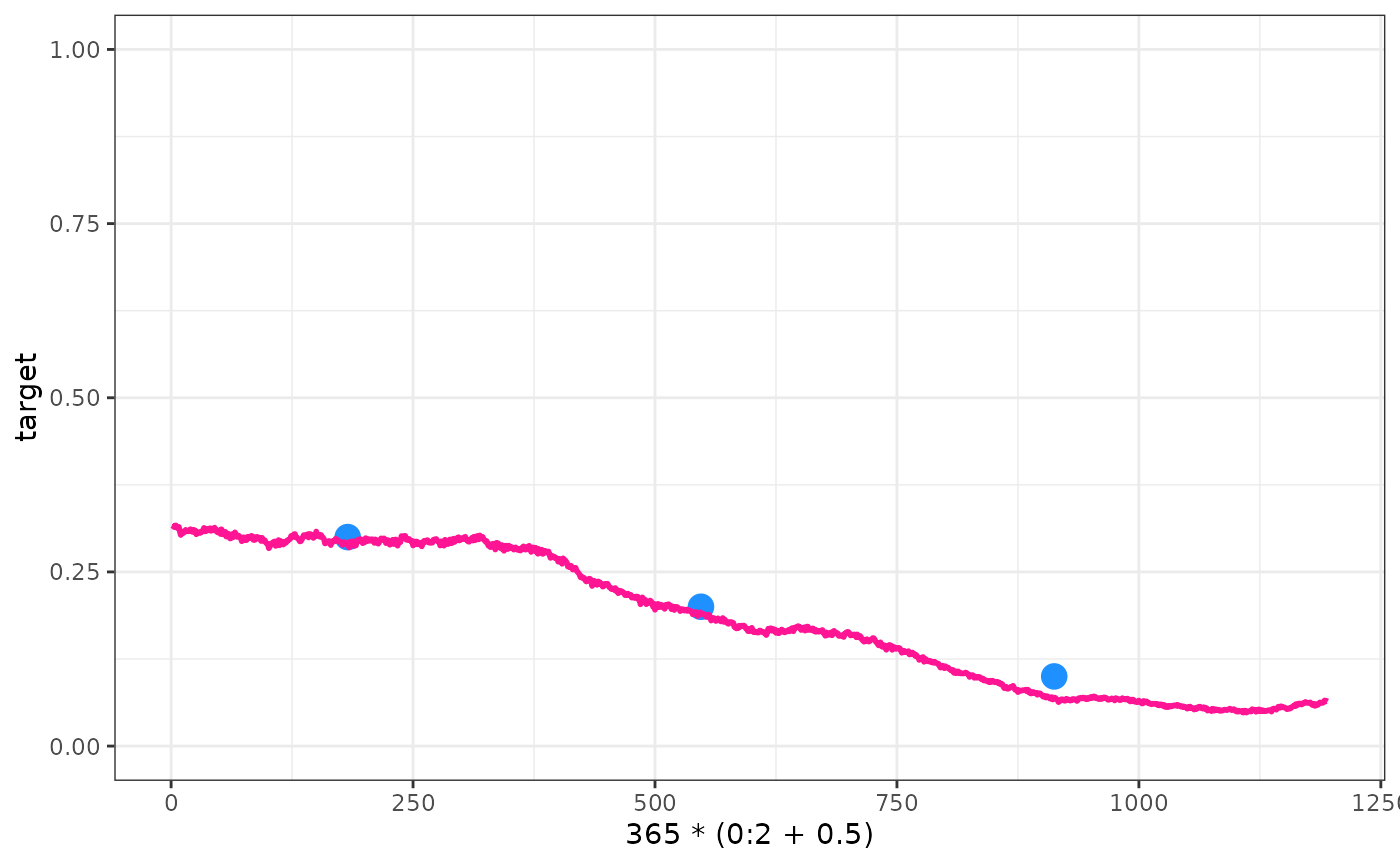
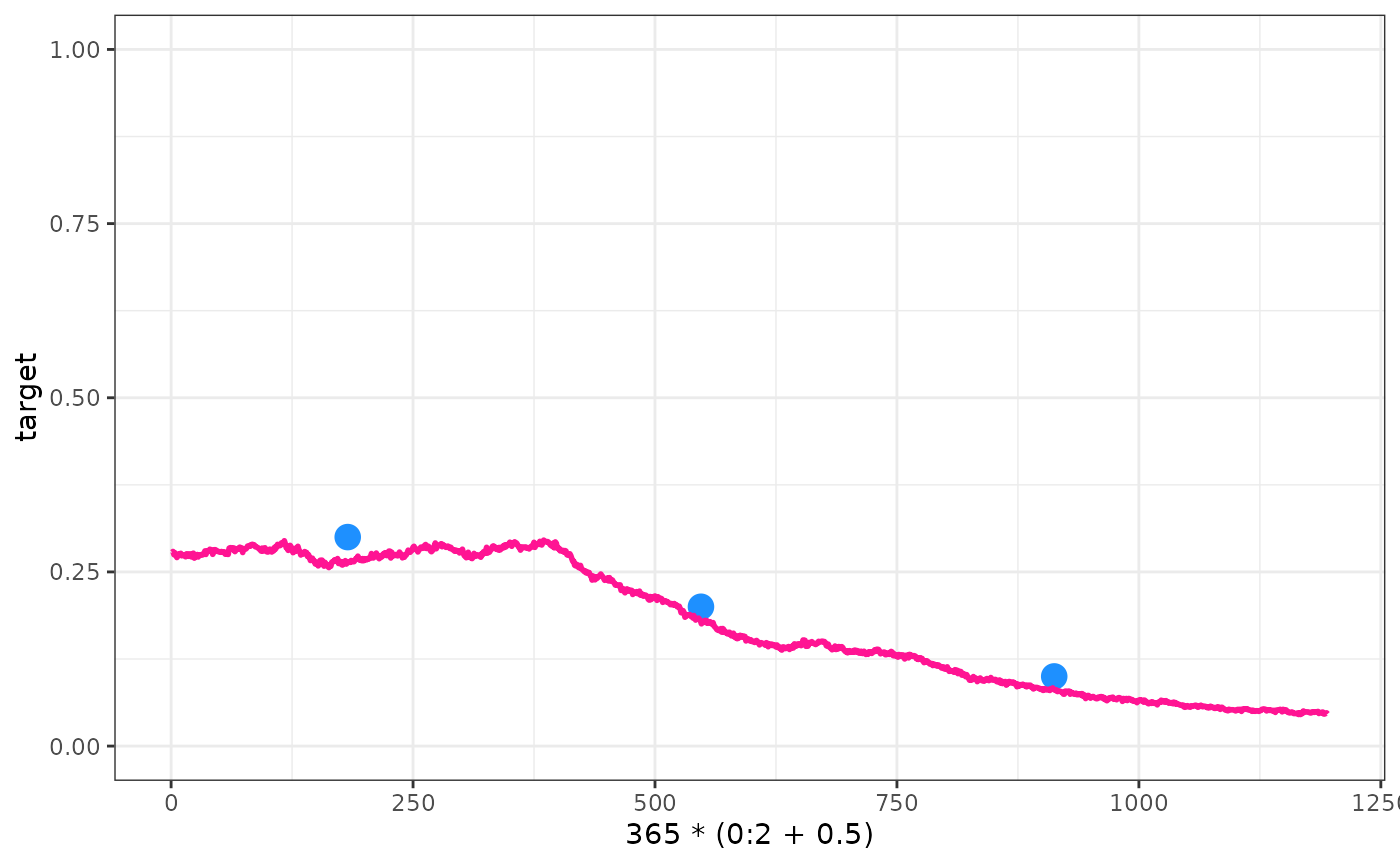
Deploying to gh-pages from @ mrc-ide/cali@144d4d77dd6d441670f5841c270a2824b933a683 🚀

Changed region(s): [[0.1229, 0.5931, 0.6757, 0.7803], [0.8293, 0.8116, 0.9521, 0.8428], [0.7064, 0.7803, 0.7986, 0.8116]]

diff --git a/articles/Advanced_calibration.html b/articles/Advanced_calibration.html
@@ -26,7 +26,7 @@
     
     <a class="navbar-brand me-2" href="../index.html">cali</a>
 
-    <small class="nav-text text-muted me-auto" data-bs-toggle="tooltip" data-bs-placement="bottom" title="">0.2.1</small>
+    <small class="nav-text text-muted me-auto" data-bs-toggle="tooltip" data-bs-placement="bottom" title="">0.2.3</small>
 
     
     <button class="navbar-toggler" type="button" data-bs-toggle="collapse" data-bs-target="#navbar" aria-controls="navbar" aria-expanded="false" aria-label="Toggle navigation">
@@ -109,33 +109,34 @@ estimates:</p>
 <span>                 tolerance <span class="op">=</span> <span class="fl">0.025</span>, </span>
 <span>                 low <span class="op">=</span> <span class="fl">4</span>, high <span class="op">=</span> <span class="fl">6</span><span class="op">)</span></span>
 <span><span class="co">#&gt; </span></span>
-<span><span class="co">#&gt; Trying EIR: 4.899</span></span>
+<span><span class="co">#&gt; Trying EIR: 4</span></span>
+<span><span class="co">#&gt;                           1       2        3</span></span>
+<span><span class="co">#&gt; model_output         0.2883 0.20105  0.09197</span></span>
+<span><span class="co">#&gt; target               0.3000 0.20000  0.10000</span></span>
+<span><span class="co">#&gt; difference          -0.0117 0.00105 -0.00803</span></span>
+<span><span class="co">#&gt; weighted_difference -0.0117 0.00105 -0.00803</span></span>
+<span><span class="co">#&gt; </span></span>
+<span><span class="co">#&gt; Sum squared weighted difference: -0.0062391</span></span>
+<span><span class="co">#&gt; Mean absolute difference &lt; tolerance</span></span>
+<span><span class="co">#&gt; </span></span>
+<span><span class="co">#&gt; Trying EIR: 6</span></span>
 <span><span class="co">#&gt;                          1      2      3</span></span>
-<span><span class="co">#&gt; y                   0.3226 0.2345 0.1142</span></span>
+<span><span class="co">#&gt; model_output        0.3339 0.2366 0.1114</span></span>
 <span><span class="co">#&gt; target              0.3000 0.2000 0.1000</span></span>
-<span><span class="co">#&gt; difference          0.0226 0.0345 0.0142</span></span>
-<span><span class="co">#&gt; weighted_difference 0.0226 0.0345 0.0142</span></span>
+<span><span class="co">#&gt; difference          0.0339 0.0366 0.0114</span></span>
+<span><span class="co">#&gt; weighted_difference 0.0339 0.0366 0.0114</span></span>
 <span><span class="co">#&gt; </span></span>
-<span><span class="co">#&gt; Trying EIR: 4.4267</span></span>
-<span><span class="co">#&gt;                           1       2       3</span></span>
-<span><span class="co">#&gt; y                    0.2963  0.1868  0.0836</span></span>
-<span><span class="co">#&gt; target               0.3000  0.2000  0.1000</span></span>
-<span><span class="co">#&gt; difference          -0.0037 -0.0132 -0.0164</span></span>
-<span><span class="co">#&gt; weighted_difference -0.0037 -0.0132 -0.0164</span></span>
+<span><span class="co">#&gt; Sum squared weighted difference: 0.027317</span></span>
 <span><span class="co">#&gt; </span></span>
-<span><span class="co">#&gt; Trying EIR: 4.6569</span></span>
-<span><span class="co">#&gt;                           1        2       3</span></span>
-<span><span class="co">#&gt; y                    0.2894 0.200369  0.0854</span></span>
-<span><span class="co">#&gt; target               0.3000 0.200000  0.1000</span></span>
-<span><span class="co">#&gt; difference          -0.0106 0.000369 -0.0146</span></span>
-<span><span class="co">#&gt; weighted_difference -0.0106 0.000369 -0.0146</span></span>
+<span><span class="co">#&gt; Trying EIR: 4</span></span>
+<span><span class="co">#&gt;                           1         2      3</span></span>
+<span><span class="co">#&gt; model_output         0.2885  0.199657  0.087</span></span>
+<span><span class="co">#&gt; target               0.3000  0.200000  0.100</span></span>
+<span><span class="co">#&gt; difference          -0.0115 -0.000343 -0.013</span></span>
+<span><span class="co">#&gt; weighted_difference -0.0115 -0.000343 -0.013</span></span>
 <span><span class="co">#&gt; </span></span>
-<span><span class="co">#&gt; Trying EIR: 4.7764</span></span>
-<span><span class="co">#&gt;                           1       2       3</span></span>
-<span><span class="co">#&gt; y                   0.30906 0.20183  0.0961</span></span>
-<span><span class="co">#&gt; target              0.30000 0.20000  0.1000</span></span>
-<span><span class="co">#&gt; difference          0.00906 0.00183 -0.0039</span></span>
-<span><span class="co">#&gt; weighted_difference 0.00906 0.00183 -0.0039</span></span>
+<span><span class="co">#&gt; Sum squared weighted difference: -0.0082838</span></span>
+<span><span class="co">#&gt; Mean absolute difference &lt; tolerance</span></span>
 <span></span>
 <span><span class="va">parameters</span> <span class="op">&lt;-</span> <span class="fu"><a href="https://rdrr.io/pkg/malariasimulation/man/set_equilibrium.html" class="external-link">set_equilibrium</a></span><span class="op">(</span><span class="va">parameters</span>, init_EIR <span class="op">=</span> <span class="va">out</span><span class="op">)</span></span>
 <span><span class="va">raw</span> <span class="op">&lt;-</span> <span class="fu"><a href="https://rdrr.io/pkg/malariasimulation/man/run_simulation.html" class="external-link">run_simulation</a></span><span class="op">(</span><span class="va">parameters</span><span class="op">$</span><span class="va">timesteps</span> <span class="op">+</span> <span class="fl">100</span>, parameters <span class="op">=</span> <span class="va">parameters</span><span class="op">)</span></span>
@@ -178,33 +179,35 @@ to bias our fitting more towards or away from certain points.</p>
 <span>                 low <span class="op">=</span> <span class="fl">4</span>, high <span class="op">=</span> <span class="fl">6</span>,</span>
 <span>                 weights <span class="op">=</span> <span class="fu"><a href="https://rdrr.io/r/base/c.html" class="external-link">c</a></span><span class="op">(</span><span class="fl">0.1</span>, <span class="fl">1</span>, <span class="fl">1</span><span class="op">)</span><span class="op">)</span></span>
 <span><span class="co">#&gt; </span></span>
-<span><span class="co">#&gt; Trying EIR: 4.899</span></span>
+<span><span class="co">#&gt; Trying EIR: 4</span></span>
+<span><span class="co">#&gt;                           1       2        3</span></span>
+<span><span class="co">#&gt; model_output         0.2883 0.20105  0.09197</span></span>
+<span><span class="co">#&gt; target               0.5000 0.20000  0.10000</span></span>
+<span><span class="co">#&gt; difference          -0.2117 0.00105 -0.00803</span></span>
+<span><span class="co">#&gt; weighted_difference -0.0212 0.00105 -0.00803</span></span>
+<span><span class="co">#&gt; </span></span>
+<span><span class="co">#&gt; Sum squared weighted difference: -0.0093853</span></span>
+<span><span class="co">#&gt; Mean absolute difference &lt; tolerance</span></span>
+<span><span class="co">#&gt; </span></span>
+<span><span class="co">#&gt; Trying EIR: 6</span></span>
 <span><span class="co">#&gt;                           1      2      3</span></span>
-<span><span class="co">#&gt; y                    0.3226 0.2345 0.1142</span></span>
+<span><span class="co">#&gt; model_output         0.3339 0.2366 0.1114</span></span>
 <span><span class="co">#&gt; target               0.5000 0.2000 0.1000</span></span>
-<span><span class="co">#&gt; difference          -0.1774 0.0345 0.0142</span></span>
-<span><span class="co">#&gt; weighted_difference -0.0177 0.0345 0.0142</span></span>
+<span><span class="co">#&gt; difference          -0.1661 0.0366 0.0114</span></span>
+<span><span class="co">#&gt; weighted_difference -0.0166 0.0366 0.0114</span></span>
 <span><span class="co">#&gt; </span></span>
-<span><span class="co">#&gt; Trying EIR: 4.4267</span></span>
-<span><span class="co">#&gt;                           1       2       3</span></span>
-<span><span class="co">#&gt; y                    0.2963  0.1868  0.0836</span></span>
-<span><span class="co">#&gt; target               0.5000  0.2000  0.1000</span></span>
-<span><span class="co">#&gt; difference          -0.2037 -0.0132 -0.0164</span></span>
-<span><span class="co">#&gt; weighted_difference -0.0204 -0.0132 -0.0164</span></span>
+<span><span class="co">#&gt; Sum squared weighted difference: 0.01048</span></span>
+<span><span class="co">#&gt; Mean absolute difference &lt; tolerance</span></span>
 <span><span class="co">#&gt; </span></span>
-<span><span class="co">#&gt; Trying EIR: 4.6569</span></span>
-<span><span class="co">#&gt;                           1        2       3</span></span>
-<span><span class="co">#&gt; y                    0.2894 0.200369  0.0854</span></span>
-<span><span class="co">#&gt; target               0.5000 0.200000  0.1000</span></span>
-<span><span class="co">#&gt; difference          -0.2106 0.000369 -0.0146</span></span>
-<span><span class="co">#&gt; weighted_difference -0.0211 0.000369 -0.0146</span></span>
+<span><span class="co">#&gt; Trying EIR: 4</span></span>
+<span><span class="co">#&gt;                           1         2      3</span></span>
+<span><span class="co">#&gt; model_output         0.2885  0.199657  0.087</span></span>
+<span><span class="co">#&gt; target               0.5000  0.200000  0.100</span></span>
+<span><span class="co">#&gt; difference          -0.2115 -0.000343 -0.013</span></span>
+<span><span class="co">#&gt; weighted_difference -0.0212 -0.000343 -0.013</span></span>
 <span><span class="co">#&gt; </span></span>
-<span><span class="co">#&gt; Trying EIR: 4.7764</span></span>
-<span><span class="co">#&gt;                           1       2       3</span></span>
-<span><span class="co">#&gt; y                    0.3091 0.20183  0.0961</span></span>
-<span><span class="co">#&gt; target               0.5000 0.20000  0.1000</span></span>
-<span><span class="co">#&gt; difference          -0.1909 0.00183 -0.0039</span></span>
-<span><span class="co">#&gt; weighted_difference -0.0191 0.00183 -0.0039</span></span>
+<span><span class="co">#&gt; Sum squared weighted difference: -0.011498</span></span>
+<span><span class="co">#&gt; Mean absolute difference &lt; tolerance</span></span>
 <span></span>
 <span><span class="va">parameters</span> <span class="op">&lt;-</span> <span class="fu"><a href="https://rdrr.io/pkg/malariasimulation/man/set_equilibrium.html" class="external-link">set_equilibrium</a></span><span class="op">(</span><span class="va">parameters</span>, init_EIR <span class="op">=</span> <span class="va">out</span><span class="op">)</span></span>
 <span><span class="va">raw</span> <span class="op">&lt;-</span> <span class="fu"><a href="https://rdrr.io/pkg/malariasimulation/man/run_simulation.html" class="external-link">run_simulation</a></span><span class="op">(</span><span class="va">parameters</span><span class="op">$</span><span class="va">timesteps</span> <span class="op">+</span> <span class="fl">100</span>, parameters <span class="op">=</span> <span class="va">parameters</span><span class="op">)</span></span>

diff --git a/articles/Basic_calibration.html b/articles/Basic_calibration.html
@@ -26,7 +26,7 @@
     
     <a class="navbar-brand me-2" href="../index.html">cali</a>
 
-    <small class="nav-text text-muted me-auto" data-bs-toggle="tooltip" data-bs-placement="bottom" title="">0.2.1</small>
+    <small class="nav-text text-muted me-auto" data-bs-toggle="tooltip" data-bs-placement="bottom" title="">0.2.3</small>
 
     
     <button class="navbar-toggler" type="button" data-bs-toggle="collapse" data-bs-target="#navbar" aria-controls="navbar" aria-expanded="false" aria-label="Toggle navigation">
@@ -107,19 +107,43 @@ on the EIR to search to help speed up this code.</p>
 <span>                 tolerance <span class="op">=</span> <span class="fl">0.01</span>, </span>
 <span>                 low <span class="op">=</span> <span class="fl">3</span>, high <span class="op">=</span> <span class="fl">5</span><span class="op">)</span></span>
 <span><span class="co">#&gt; </span></span>
-<span><span class="co">#&gt; Trying EIR: 3.873</span></span>
+<span><span class="co">#&gt; Trying EIR: 3</span></span>
 <span><span class="co">#&gt;                        [,1]</span></span>
-<span><span class="co">#&gt; y                    0.2876</span></span>
+<span><span class="co">#&gt; model_output         0.2518</span></span>
 <span><span class="co">#&gt; target               0.3000</span></span>
-<span><span class="co">#&gt; difference          -0.0124</span></span>
-<span><span class="co">#&gt; weighted_difference -0.0124</span></span>
+<span><span class="co">#&gt; difference          -0.0482</span></span>
+<span><span class="co">#&gt; weighted_difference -0.0482</span></span>
 <span><span class="co">#&gt; </span></span>
-<span><span class="co">#&gt; Trying EIR: 4.4006</span></span>
+<span><span class="co">#&gt; Sum squared weighted difference: -0.048242</span></span>
+<span><span class="co">#&gt; </span></span>
+<span><span class="co">#&gt; Trying EIR: 5</span></span>
 <span><span class="co">#&gt;                       [,1]</span></span>
-<span><span class="co">#&gt; y                   0.3065</span></span>
+<span><span class="co">#&gt; model_output        0.3151</span></span>
 <span><span class="co">#&gt; target              0.3000</span></span>
-<span><span class="co">#&gt; difference          0.0065</span></span>
-<span><span class="co">#&gt; weighted_difference 0.0065</span></span></code></pre></div>
+<span><span class="co">#&gt; difference          0.0151</span></span>
+<span><span class="co">#&gt; weighted_difference 0.0151</span></span>
+<span><span class="co">#&gt; </span></span>
+<span><span class="co">#&gt; Sum squared weighted difference: 0.015123</span></span>
+<span><span class="co">#&gt; </span></span>
+<span><span class="co">#&gt; Trying EIR: 4.5227</span></span>
+<span><span class="co">#&gt;                        [,1]</span></span>
+<span><span class="co">#&gt; model_output        0.30941</span></span>
+<span><span class="co">#&gt; target              0.30000</span></span>
+<span><span class="co">#&gt; difference          0.00941</span></span>
+<span><span class="co">#&gt; weighted_difference 0.00941</span></span>
+<span><span class="co">#&gt; </span></span>
+<span><span class="co">#&gt; Sum squared weighted difference: 0.009413</span></span>
+<span><span class="co">#&gt; Mean absolute difference &lt; tolerance</span></span>
+<span><span class="co">#&gt; </span></span>
+<span><span class="co">#&gt; Trying EIR: 4.5227</span></span>
+<span><span class="co">#&gt;                         [,1]</span></span>
+<span><span class="co">#&gt; model_output         0.29462</span></span>
+<span><span class="co">#&gt; target               0.30000</span></span>
+<span><span class="co">#&gt; difference          -0.00538</span></span>
+<span><span class="co">#&gt; weighted_difference -0.00538</span></span>
+<span><span class="co">#&gt; </span></span>
+<span><span class="co">#&gt; Sum squared weighted difference: -0.005384</span></span>
+<span><span class="co">#&gt; Mean absolute difference &lt; tolerance</span></span></code></pre></div>
 <p>Ok, we’ve calibrated. Lets run the calibrated model and see how we
 did.</p>
 <div class="sourceCode" id="cb5"><pre class="downlit sourceCode r">

diff --git a/reference/objective.html b/reference/objective.html
@@ -10,7 +10,7 @@
     
     <a class="navbar-brand me-2" href="../index.html">cali</a>
 
-    <small class="nav-text text-muted me-auto" data-bs-toggle="tooltip" data-bs-placement="bottom" title="">0.2.1</small>
+    <small class="nav-text text-muted me-auto" data-bs-toggle="tooltip" data-bs-placement="bottom" title="">0.2.3</small>
 
     
     <button class="navbar-toggler" type="button" data-bs-toggle="collapse" data-bs-target="#navbar" aria-controls="navbar" aria-expanded="false" aria-label="Toggle navigation">
@@ -49,7 +49,15 @@
 
     <div class="section level2">
     <h2 id="ref-usage">Usage<a class="anchor" aria-label="anchor" href="#ref-usage"></a></h2>
-    <div class="sourceCode"><pre class="sourceCode r"><code><span><span class="fu">objective</span><span class="op">(</span><span class="va">x</span>, <span class="va">parameters</span>, <span class="va">summary_function</span><span class="op">)</span></span></code></pre></div>
+    <div class="sourceCode"><pre class="sourceCode r"><code><span><span class="fu">objective</span><span class="op">(</span></span>
+<span>  <span class="va">x</span>,</span>
+<span>  <span class="va">parameters</span>,</span>
+<span>  <span class="va">summary_function</span>,</span>
+<span>  <span class="va">target</span>,</span>
+<span>  <span class="va">weights</span>,</span>
+<span>  <span class="va">tolerance</span>,</span>
+<span>  <span class="va">elimination_check</span></span>
+<span><span class="op">)</span></span></code></pre></div>
     </div>
 
     <div class="section level2">
@@ -65,6 +73,25 @@
 <dt>summary_function</dt>
 <dd><p>A function that take the raw model output as an argument and
 produces a vector of the target variable.</p></dd>
+
+
+<dt>target</dt>
+<dd><p>Values of target variable to calibrate to.</p></dd>
+
+
+<dt>weights</dt>
+<dd><p>A numerical vector of weights the same length as target giving the weights to use for elements of target.</p></dd>
+
+
+<dt>tolerance</dt>
+<dd><p>The routine will complete when the average absolute weighted difference between the target variable
+and the target values falls below this value. Tolerance is specified in
+the units of the target variable (e.g. if my target variable is prevalence, and my tolerance is 0.05,
+then the average absolute sum of the weighted difference between the target variable and the target values must be &lt;5% for the routine to succeed).</p></dd>
+
+
+<dt>elimination_check</dt>
+<dd><p>Check transmission is maintained for all target points with ongoing transmission before exiting early.</p></dd>
 
 </dl></div>
     <div class="section level2">

diff --git a/reference/calibrate.html b/reference/calibrate.html
@@ -10,7 +10,7 @@
     
     <a class="navbar-brand me-2" href="../index.html">cali</a>
 
-    <small class="nav-text text-muted me-auto" data-bs-toggle="tooltip" data-bs-placement="bottom" title="">0.2.1</small>
+    <small class="nav-text text-muted me-auto" data-bs-toggle="tooltip" data-bs-placement="bottom" title="">0.2.3</small>
 
     
     <button class="navbar-toggler" type="button" data-bs-toggle="collapse" data-bs-target="#navbar" aria-controls="navbar" aria-expanded="false" aria-label="Toggle navigation">
@@ -78,10 +78,10 @@ produces a vector of the target variable.</p></dd>
 
 
 <dt>tolerance</dt>
-<dd><p>The routine will complete when the absolute sum of the weighted difference between the target variable
+<dd><p>The routine will complete when the average absolute weighted difference between the target variable
 and the target values falls below this value. Tolerance is specified in
 the units of the target variable (e.g. if my target variable is prevalence, and my tolerance is 0.05,
-then the absolute sum of the weighted difference between the target variable and the target values must be &lt;5% for the routine to succeed).</p></dd>
+then the average absolute sum of the weighted difference between the target variable and the target values must be &lt;5% for the routine to succeed).</p></dd>
 
 
 <dt>weights</dt>

diff --git a/authors.html b/authors.html
@@ -10,7 +10,7 @@
     
     <a class="navbar-brand me-2" href="index.html">cali</a>
 
-    <small class="nav-text text-muted me-auto" data-bs-toggle="tooltip" data-bs-placement="bottom" title="">0.2.1</small>
+    <small class="nav-text text-muted me-auto" data-bs-toggle="tooltip" data-bs-placement="bottom" title="">0.2.3</small>
 
     
     <button class="navbar-toggler" type="button" data-bs-toggle="collapse" data-bs-target="#navbar" aria-controls="navbar" aria-expanded="false" aria-label="Toggle navigation">
@@ -56,13 +56,13 @@
 
       <p>Winskill P (2023).
 <em>cali: Good vibes and model calibration</em>.
-R package version 0.2.1. 
+R package version 0.2.3. 
 </p>
       <pre>@Manual{,
   title = {cali: Good vibes and model calibration},
   author = {Pete Winskill},
   year = {2023},
-  note = {R package version 0.2.1},
+  note = {R package version 0.2.3},
 }</pre>
     </div>
   </main><aside class="col-md-3"><nav id="toc"><h2>On this page</h2>

diff --git a/reference/index.html b/reference/index.html
@@ -10,7 +10,7 @@
     
     <a class="navbar-brand me-2" href="../index.html">cali</a>
 
-    <small class="nav-text text-muted me-auto" data-bs-toggle="tooltip" data-bs-placement="bottom" title="">0.2.1</small>
+    <small class="nav-text text-muted me-auto" data-bs-toggle="tooltip" data-bs-placement="bottom" title="">0.2.3</small>
 
     
     <button class="navbar-toggler" type="button" data-bs-toggle="collapse" data-bs-target="#navbar" aria-controls="navbar" aria-expanded="false" aria-label="Toggle navigation">
@@ -62,11 +62,6 @@
           <code><a href="objective.html">objective()</a></code> 
         </dt>
         <dd>Objective function</dd>
-      </dl><dl><dt>
-          
-          <code><a href="proposal.html">proposal()</a></code> 
-        </dt>
-        <dd>Propose new EIR, moving on log scale</dd>
       </dl><dl><dt>
           
           <code><a href="summary_mean_pfpr_2_10.html">summary_mean_pfpr_2_10()</a></code> 

diff --git a/articles/index.html b/articles/index.html
@@ -10,7 +10,7 @@
     
     <a class="navbar-brand me-2" href="../index.html">cali</a>
 
-    <small class="nav-text text-muted me-auto" data-bs-toggle="tooltip" data-bs-placement="bottom" title="">0.2.1</small>
+    <small class="nav-text text-muted me-auto" data-bs-toggle="tooltip" data-bs-placement="bottom" title="">0.2.3</small>
 
     
     <button class="navbar-toggler" type="button" data-bs-toggle="collapse" data-bs-target="#navbar" aria-controls="navbar" aria-expanded="false" aria-label="Toggle navigation">

diff --git a/reference/summary_mean_pfpr_2_10.html b/reference/summary_mean_pfpr_2_10.html
@@ -10,7 +10,7 @@
     
     <a class="navbar-brand me-2" href="../index.html">cali</a>
 
-    <small class="nav-text text-muted me-auto" data-bs-toggle="tooltip" data-bs-placement="bottom" title="">0.2.1</small>
+    <small class="nav-text text-muted me-auto" data-bs-toggle="tooltip" data-bs-placement="bottom" title="">0.2.3</small>
 
     
     <button class="navbar-toggler" type="button" data-bs-toggle="collapse" data-bs-target="#navbar" aria-controls="navbar" aria-expanded="false" aria-label="Toggle navigation">

diff --git a/404.html b/404.html
@@ -24,7 +24,7 @@
     
     <a class="navbar-brand me-2" href="index.html">cali</a>
 
-    <small class="nav-text text-muted me-auto" data-bs-toggle="tooltip" data-bs-placement="bottom" title="">0.2.1</small>
+    <small class="nav-text text-muted me-auto" data-bs-toggle="tooltip" data-bs-placement="bottom" title="">0.2.3</small>
 
     
     <button class="navbar-toggler" type="button" data-bs-toggle="collapse" data-bs-target="#navbar" aria-controls="navbar" aria-expanded="false" aria-label="Toggle navigation">

diff --git a/LICENSE-text.html b/LICENSE-text.html
@@ -10,7 +10,7 @@
     
     <a class="navbar-brand me-2" href="index.html">cali</a>
 
-    <small class="nav-text text-muted me-auto" data-bs-toggle="tooltip" data-bs-placement="bottom" title="">0.2.1</small>
+    <small class="nav-text text-muted me-auto" data-bs-toggle="tooltip" data-bs-placement="bottom" title="">0.2.3</small>
 
     
     <button class="navbar-toggler" type="button" data-bs-toggle="collapse" data-bs-target="#navbar" aria-controls="navbar" aria-expanded="false" aria-label="Toggle navigation">

diff --git a/index.html b/index.html
@@ -28,7 +28,7 @@
     
     <a class="navbar-brand me-2" href="index.html">cali</a>
 
-    <small class="nav-text text-muted me-auto" data-bs-toggle="tooltip" data-bs-placement="bottom" title="">0.2.1</small>
+    <small class="nav-text text-muted me-auto" data-bs-toggle="tooltip" data-bs-placement="bottom" title="">0.2.3</small>
 
     
     <button class="navbar-toggler" type="button" data-bs-toggle="collapse" data-bs-target="#navbar" aria-controls="navbar" aria-expanded="false" aria-label="Toggle navigation">
